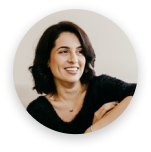
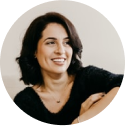
Add mobile styling to reserve section

diff --git a/css/style.css b/css/style.css
@@ -315,6 +315,10 @@ button {
   #testimonials .author-info img {
     width: 100px;
     height: 100px;
+    border-radius: 50%;
+    -webkit-box-shadow: 0px 4px 13px 0px rgba(0, 0, 0, 0.3);
+    -moz-box-shadow: 0px 4px 13px 0px rgba(0, 0, 0, 0.3);
+    box-shadow: 0px 4px 13px 0px rgba(0, 0, 0, 0.3);
   }
   #testimonials .author-info p {
     margin-bottom: 18px;
@@ -342,6 +346,41 @@ button {
   }
   #testimonials .testimonial .next-testimonial {
     right: -40px;
+  }
+  #reserve-now {
+    position: relative;
+    margin: 0 auto 6rem;
+    padding: 65px 0;
+    color: #fff;
+    background-image: url("../img/reserve/reserve-cat-bg.png");
+    background-size: cover;
+    background-color: #67B6FF;
+    background-blend-mode: multiply;
+  }
+  #reserve-now h2 {
+    margin-bottom: 3.8rem;
+    text-align: center;
+  }
+  #reserve-now .reservation-option {
+    position: relative;
+    z-index: 1;
+    width: 190px;
+    margin: 0 auto;
+  }
+  #reserve-now .reservation-option:nth-child(2) {
+    margin-bottom: 75px;
+  }
+  #reserve-now .reservation-option p:first-child {
+    margin-bottom: 24px;
+    font-weight: 600;
+  }
+  #reserve-now .reservation-option p:nth-child(2) {
+    margin-bottom: 36px;
+    font-size: 0.75rem;
+  }
+  #reserve-now .reservation-option button {
+    padding: 10px 24px;
+    font-size: 0.75rem;
   }
 }
 

diff --git a/input.scss b/input.scss
@@ -371,6 +371,10 @@ button {
       img {
         width: 100px;
         height: 100px;
+        border-radius: 50%;
+        -webkit-box-shadow: 0px 4px 13px 0px rgba(0,0,0,0.30);
+        -moz-box-shadow: 0px 4px 13px 0px rgba(0,0,0,0.30);
+        box-shadow: 0px 4px 13px 0px rgba(0,0,0,0.30);
       }
 
       p {
@@ -399,6 +403,48 @@ button {
 
       .prev-testimonial { left: -40px; }
       .next-testimonial { right: -40px; }
+    }
+  }
+
+  #reserve-now {
+    position: relative;
+    margin: 0 auto 6rem;
+    padding: 65px 0;
+    color: #fff;
+    background-image: url('../img/reserve/reserve-cat-bg.png');
+    background-size: cover;
+    background-color: #67B6FF;
+    background-blend-mode: multiply;
+
+    h2 {
+      margin-bottom: 3.8rem;
+      text-align: center;
+    }
+
+    .reservation-option {
+      position: relative;
+      z-index: 1;
+      width: 190px;
+      margin: 0 auto;
+
+      &:nth-child(2) {
+        margin-bottom: 75px;
+      }
+        
+      p:first-child {
+        margin-bottom: 24px;
+        font-weight: 600;
+      }
+
+      p:nth-child(2) {
+        margin-bottom: 36px;
+        font-size: 0.75rem;
+      }
+
+      button {
+        padding: 10px 24px;
+        font-size: 0.75rem;
+      }
     }
   }
 }
